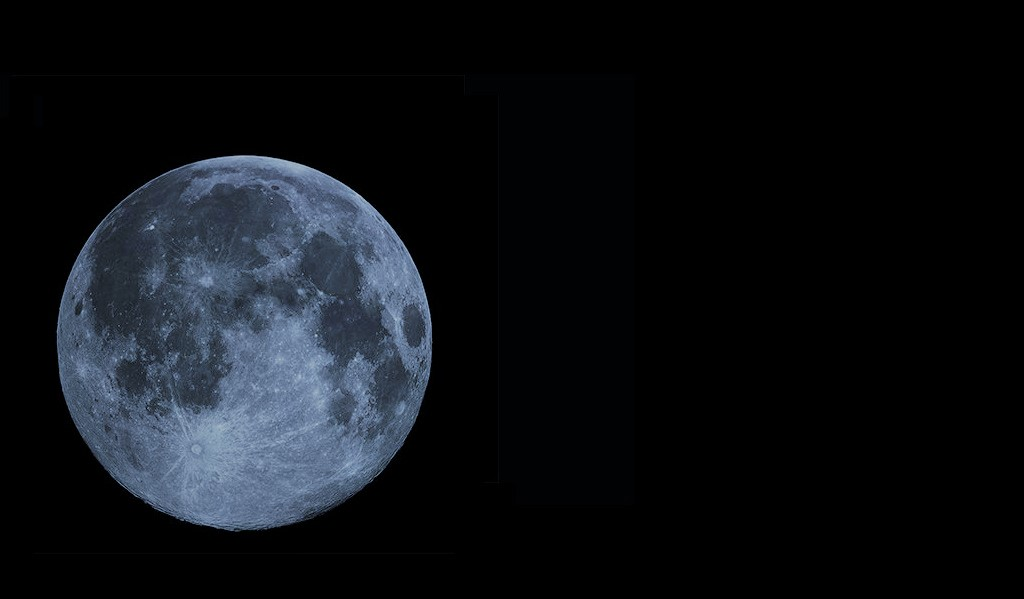
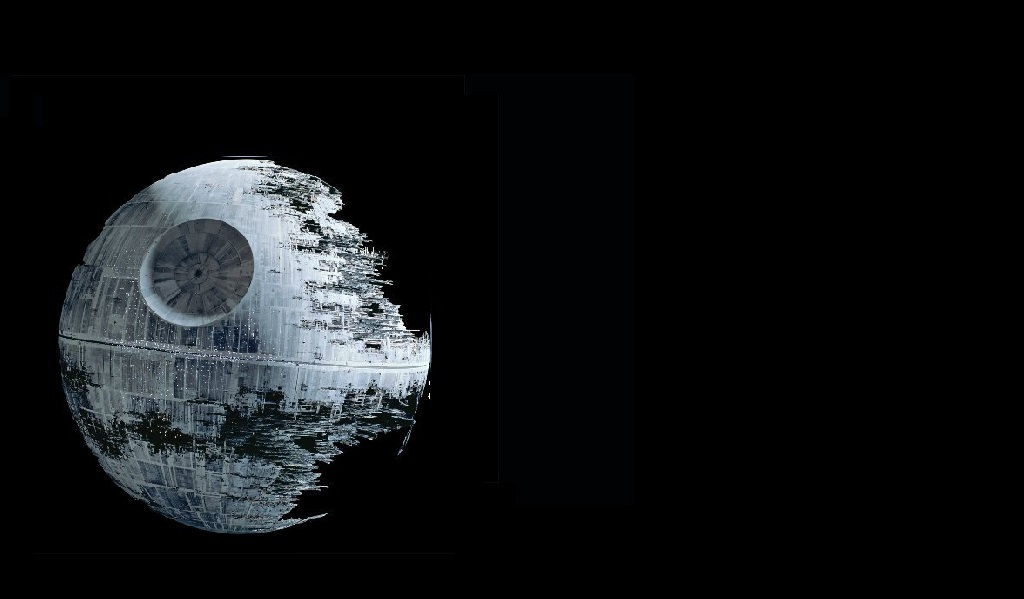
feature: added sw moon

Changed region(s): [[0.0312, 0.2404, 0.4375, 0.9015]]

diff --git a/src/app/background/background.component.scss b/src/app/background/background.component.scss
@@ -31,7 +31,7 @@
 .bg-fixed2{
   position:fixed;
   left:0; 
-  bottom: 42px;
+  bottom: 213px;
   width: 100vw;
   max-width: 50vw;
   height: 100vh;
